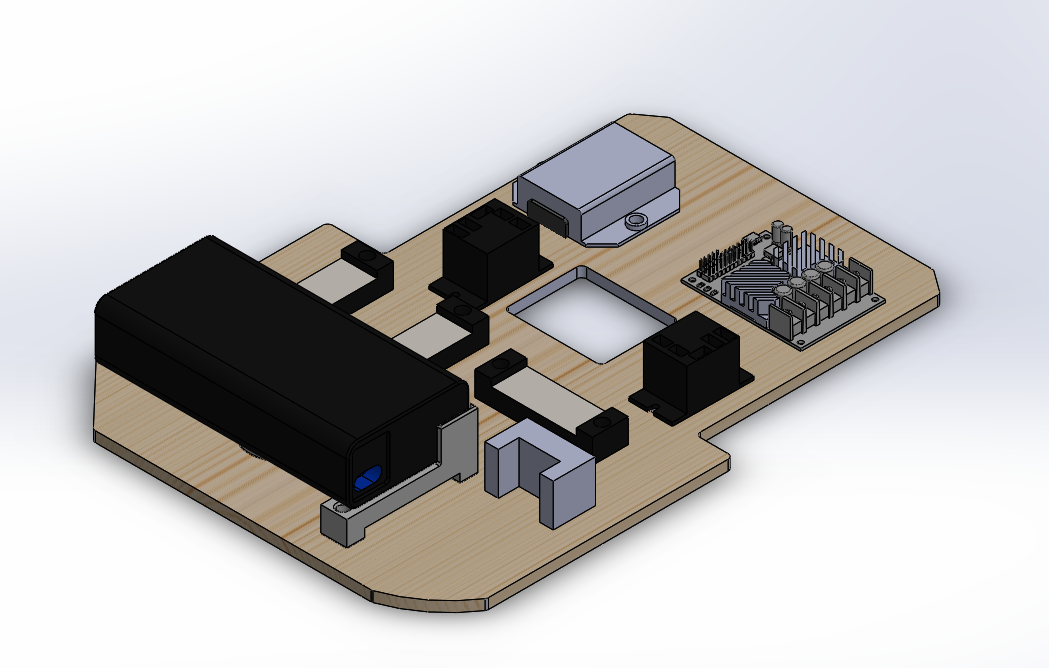
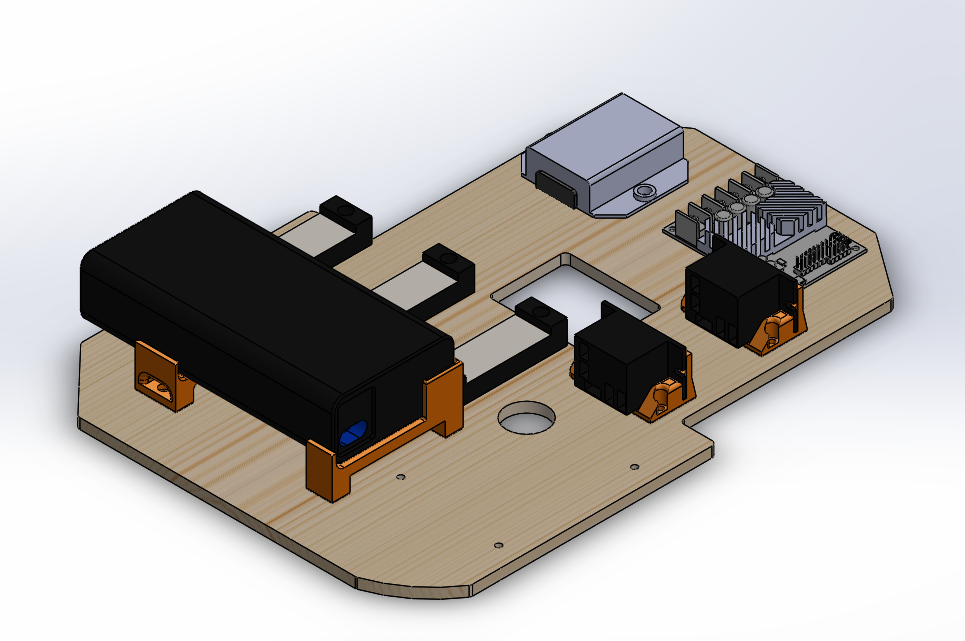
Update README
- Update the descriptions in the README
- Added some images for the README

Changed region(s): [[0.0622, 0.1248, 0.9637, 0.9672]]

diff --git a/README.md b/README.md
@@ -12,7 +12,8 @@ This repository contains the 3D model of a modified Pioneer 2-DX used by the Swa
 ```
 Pioneer-Mechanical-Update
 ├── outputs
-│   └── dxf
+│   ├── dxf
+|   ├── pdf
 │   └── STL
 |   	├── external
 │   	└── internal
@@ -25,11 +26,11 @@ Pioneer-Mechanical-Update
 
 #### pioneer2DX.SLDASM
 
-Main assembly of the modified pioneer. It's composed of a Pioneer 3Dx chassis (which is the same as the Pioneer 2Dx) get from *Pioneer_originalRobotBase*, from components that are external to the robot (*external*) and from components that are internal to the robot (*internal*).
+Main assembly of the modified pioneer. It's composed of a Pioneer 3Dx chassis (which is the same as the Pioneer 2Dx) get from *Pioneer_originalRobotBase*, of components that are external to the robot (*external*) and of components that are internal to the robot (*internal*).
 
-In this assembly, the Realsense D455 and its support are used but an additional models were made to use a D435i instead.
+In this assembly, the Realsense D435i and its support are used but an additional models were made to use a D455 instead. The D455 version is include in assembly in hidden mode. 
 
-Note: The wheels and the front sonar array are not included in the assembly since they are not useful to the sensor and electronic layout. 
+Note: The wheels and the front sonar array are not included in the assembly since they are not useful to the sensors and electronics layouts. 
 
 ![alt text](pioneer_assembly.PNG)
 
@@ -43,17 +44,32 @@ Contains the 3D models of the external components and their supports
   - **D435i_case.sldprt**: Realsense D435i protective case
   - **Intel_RealSense_Depth_Camera_D435.SLDASM**: 3D model of the camera distributed by Realsense [CAD Files (intelrealsense.com)](https://dev.intelrealsense.com/docs/cad-files)
   - **D435i_support.sldprt**: Camera stand that fits on a bolt pattern of the pioneer's top plate. The protective case is compatible with the support.
+  - **D435i.SLDASM**: Assembly of the camera, its protective case and its support.
   - **protected_D435i.SLDASM**: Assembly of the camera and its protective case.
+  
 - **D455**
+  
   - **D455_case.sldprt**: Realsense D455 protective case
   - **Intel_RealSense_D455_CAD_external_v2.SLDASM**: 3D model of the camera distributed by Realsense [CAD Files (intelrealsense.com)](https://dev.intelrealsense.com/docs/cad-files)
   - **D455_support.sldprt**: Camera stand that fits on a bolt pattern of the pioneer's top plate. The protective case is compatible with the support.
+  - **D455_assembly.SLDASM**: Assembly of the camera, its protective  case and its support.
   - **protected_D455.SLDASM**: Assembly of the camera and its protective case.
+  
 - **motor_stop.SLDPRT**
+  
   - Cad of the pushbutton used to stop the motor power. Is mounted in a 22mm hole in Pioneer's top plate.
+  
 - **Lidar**
   - **rplidar_simplified.SLDPRT**: 3D model of a simplified Rplidar A2M8.
-  - **lidar_support.SLDPRT**: Lidar stand. Our Pioneer 2Dx has already a bolt pattern on its top plate that we reused to save us time.
+  - **lidar_support_april_tags.SLDPRT**: Lidar stand. Our Pioneer 2Dx has already a bolt pattern on its top plate that we reused to save us time. Its sides were designed to install a plate or a sheet with AprilTtags on them.
+  
+- **Others**:
+
+  - **motor_stop.SLDPRT**: Approximated model of the mushroom button used to control motor power. 
+
+  - **top_plate_modifications.SLDDRW**: Drawings of the additional holes that needs to be drilled on the Pioneer's top plate. One is for the the mushroom button and the other one is an M3X0.5 tapped hole for the camera supports. 
+
+    ![](C:\Users\etienne\OneDrive - USherbrooke\ecole\Uni\swarm\Pioneer-Mechanical-Update\top_plate_holes.PNG)
 
 ### internal
 
@@ -61,40 +77,60 @@ Contains the 3D models of the internal components, their supports and big suppor
 
 - **Battery**
 
-  - **GOOLOO.SLDPRT**: Model of the battery. It's placed at the back of the robot since its the most accessible place in order to remove it and recharge it. 
-  - **battery_holder_center.SLDPRT** and **battery_holder_side.SLDPRT**: support of the battery on the internal plate in order to strap the battery with a velcro and to give more room to the wire exiting the battery
+  ![](C:\Users\etienne\OneDrive - USherbrooke\ecole\Uni\swarm\Pioneer-Mechanical-Update\battery.PNG)
+
+  - **GOOLOO.SLDPRT**: Model of the battery. It's placed at the back of the robot since its the most accessible place to remove it and recharge it. 
+  - **battery_holder_center.SLDPRT** , **battery_holder_side.SLDPRT** and **battery_stopper**: supports fixed on the internal plate. The battery sits in the supports to block its motion. An additional velcro strip can be installed in the middle support to strap the battery thus preventing it from moving up and down.
 
 - **Support plate**
 
   ![alt text](support_plate.PNG)
 
-  - **internal_suport_plate_hole.SLDPRT** : Laser cut plate used to screw the components in place.
+  - **internal_support_plate_hole.SLDPRT** : Laser cut plate used to screw the components in place.
   - **small_plate_support.SLDPRT**: Small stands used to support the plate near the back of the robot. There are 4 of them and they are screwed on the bolt pattern of the bottom plate of the robot's chassis.
-  - **big_plate_support.SLDPRT**: Big stand that can be used to support the front of the plate inside the robot. This part can be 3D printed
-    - **big_plate_support.SLDASM (Alternative with a laser cut technology)**: Assembly of four 1/8" 2D cut plate
-      - **big_support_long_side_0P125.SLDPRT**: Long side of the box
-      - **big_support_small_side_0P125.SLDPRT**: Small side of the box
-      - TODO: Need a small bracket to connect the box to the screw holes of the pioneer
+  - **big_plate_support.SLDPRT**: Big stand that can be used to support the front of the plate inside the robot. This part is optional because the four small supports are able to maintain the plate stable.
 
 - **internal_electronics_plate.SLDASM**: Assembly of the circuits components and the support plate.
 
   ![alt text](plate_components.PNG)
 
-  - **bornier.SLDPRT**: Screw terminals.
-  - **diode_schottky.SLDPRT**: Schottky diode.
+  - **bornier.SLDPRT**: Screw terminals block.
   - **REG_313080006.SLDPRT**: 313080006 5V regulator
-  - **relay.SLDPRT**: Relay
+  - **Relays**
+    - **relay.SLDPRT**: Relay
+    - **relay_bracket.SLDPRT**: Bracket to hold the relay at a 90 degrees angle. This help with the electrical harness.
+    - **relay_assembly.SLDASM**: Assembly of the relay and its bracket
   - **roboclaw_2X30A.SLDASM**: Motor controller CAD. Got it on : [RoboClaw 2x30A Motor Controller (basicmicro.com)](https://www.basicmicro.com/RoboClaw-2x30A-Motor-Controller_p_9.html)
 
   
 
-- **Side pannel**
+- **Computer's side pannel**
 
   ![alt text](side_pannel.PNG)
 
-  - **computer.SLDPRT**: Box that represents the footprint of  Raspberry Pi 4 and a Jetson Nano ( sizes of their longest side with height of a Jetson)
-  - **side_pannel.SLDPRT**: Model of a panel that can be installed on the left-side slot of the pioneer to support a min-plate. In our case, we used is to support the computer.
+  - **computer.SLDPRT**: Box that represents the footprint of  Raspberry Pi 4 and a Jetson Nano ( sizes of their longest side with height of a Jetson). The CAD of the Raspberry Pi 4 is very heavy to load so this box is used as a lighter representation.
+
+  - **side_pannel.SLDPRT**: Model of a panel that can be installed on the left-side slot of the pioneer to support a small plate. In our case, we used is to support the computer.
+
   - **computer_support.SLDPRT**: Plate that can be screwed on the *side_pannel.SLDPRT* . It has the bolt pattern to install a Rasberry Pi 4 or a Jeston Nano.
+
+  - **computer_support_pi.SLDPRT**: Plate that can be screwed on the *side_pannel.SLDPRT* . It has the bolt pattern to install a Rasberry Pi 4. Was designed to have a more compact plate the selected computer is the Raspberry Pi 4. 
+
+  - **supported_pi.SLDASM**: Assembly of the side pannel and the Raspberry Pi 4 support plate.
+
+  - **fan_support.SLDPRT**: Support for the 5V fan that comes with the [LABIST Raspberry Pi 4 case]([LABISTS Case for Raspberry Pi 4](https://labists.com/products/raspberry-pi-4-case-kit)). Screwed with the screws that came with the kit.
+
+  - **fan_support_m3.SLDPRT**: Support for the 5V [CANAKIT Pi fan](https://www.canakit.com/raspberry-pi-fan.html). Screwed with M3 fasteners.
+
+    ![](C:\Users\etienne\OneDrive - USherbrooke\ecole\Uni\swarm\Pioneer-Mechanical-Update\fan_support.PNG)
+
+  **Under Voltage Lock Out's (UVLO) side pannel**
+
+  ![](C:\Users\etienne\OneDrive - USherbrooke\ecole\Uni\swarm\Pioneer-Mechanical-Update\uvlo.PNG)
+
+  - **UVLO_MODULE_PCB REV Project_PCB_Rev.SLDASM**: CAD of the Under Voltage Lock Out module made by the SwarmUS electrical team. Used to cut power whenever the battery is below a selected voltage threshold. [Link]([Electrical/04 - UVLO_MODULE at master · SwarmUS/Electrical (github.com)](https://github.com/SwarmUS/Electrical/tree/master/04 - UVLO_MODULE)) to project.
+  - **side_pannel_uvlo.SLDPRT**: Model of a panel that can be installed on the right-side slot of the pioneer to the UVLO printed circuit board with M3 screws . Used to support the UVLO printed circuit board and to have a placeholders for the starting pushbutton, the main power switch and a LED.
+  - **supported_uvlo.SLDASM**: Assembly of the side pannel and the UVLO.
 
 ### **Pioneer_originalRobotBase**: 
 
@@ -106,11 +142,9 @@ I had to redraw the motors(*internal/GM9236S01.SLDPRT*) since the motors were mi
 
 I only used the main part of the chassis since all the other stuffs are not on our real Pioneer 2Dx.
 
-
-
 ### Outputs
 
 - STL files of the custom made part in order to 3D print them.
-- DXF files of the custom 2D plate. Can be used with a laser cutting machine.
+- DXF files of the custom 2D plate. A .swg and a .pdf was generated for each .dxf files with 0.001" paths with the colorRGB(255, 0, 0) . This can be used with a laser cutting machine.
+- PDF file of the Pioneer top plate modification's drawing. It indicates the position of the M3x0.5 tapped hole that needs to be added for the camera support and the position and the size of the mounting hole for the mushroom button.
 
-Note: Some files might differ from their original model and they will be updated on the next iteration of the mechanical parts.
